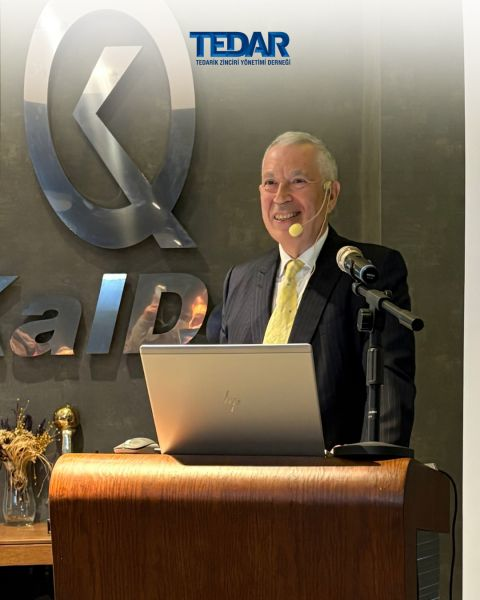
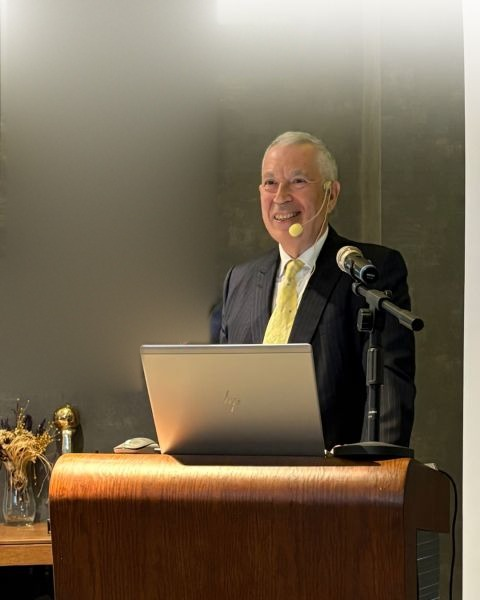
refactor(certificates): update certificate API endpoints and remove unnecessary checks

Changed region(s): [[0.0, 0.0, 0.625, 0.66]]

diff --git a/src/app/page.tsx b/src/app/page.tsx
@@ -2,7 +2,6 @@ import Link from "next/link";
 import { ArrowRight, Award } from "lucide-react";
 import { Corners } from "@/components/Corners";
 import { CourseCard } from "@/components/CourseCard";
-import { CertVerify } from "@/components/CertVerify";
 import { DEMO_CERT, FOUNDERS, MARQUEE, STEPS, BLUE, PURP, courseColor, courseDelay } from "@/data/courses";
 import { getCurrentUser } from "@/lib/auth";
 import { isActiveMember } from "@/lib/company";
@@ -236,11 +235,10 @@ export default async function HomePage() {
           <div className="wrap section-pad" style={{ display: "grid", gridTemplateColumns: "repeat(auto-fit,minmax(min(100%,440px),1fr))", gap: 64, alignItems: "center" }}>
             <div data-reveal="1">
               <div className="eyebrow" style={{ color: "var(--color-accent-2-700)" }}>04 — Sertifikasyon</div>
-              <h2 className="h-section" style={{ margin: "0 0 22px" }}>Sınavla kazanılır, tek tıkla doğrulanır</h2>
+              <h2 className="h-section" style={{ margin: "0 0 22px" }}>Sınavla kazanılır, numarayla belgelenir</h2>
               <p style={{ fontSize: 17, color: "color-mix(in srgb,var(--color-text) 74%,transparent)", maxWidth: 480, textWrap: "pretty", marginBottom: 32 }}>
-                Final sınavını geçen her öğrenciye benzersiz numaralı bir sertifika verilir. İşverenler sertifika numarasıyla ya da QR kodla belgenin geçerliliğini anında kontrol edebilir.
+                Final sınavını geçen her öğrenciye benzersiz numaralı bir sertifika verilir.
               </p>
-              <CertVerify />
             </div>
 
             <div aria-hidden style={{ position: "relative", minHeight: 440, display: "grid", placeItems: "center" }}>

diff --git a/src/lib/format.ts b/src/lib/format.ts
@@ -4,18 +4,6 @@ export function formatPrice(value: number | string | null | undefined): string {
   return "₺" + new Intl.NumberFormat("tr-TR", { minimumFractionDigits: Number.isInteger(n) ? 0 : 2, maximumFractionDigits: 2 }).format(n);
 }
 
-/** Kutuya sertifika numarası ya da sertifika linki (…/sertifika/PRF-2026-000001) girilebilir; numarayı ayıklar. */
-export function extractCertCode(input: string): string {
-  const text = input.trim();
-  const m = text.match(/(?:^|\/)sertifika\/([^/?#\s]+)/i);
-  if (!m) return text;
-  try {
-    return decodeURIComponent(m[1]).trim();
-  } catch {
-    return m[1];
-  }
-}
-
 /** 135 → "2 saat 15 dk", 60 → "1 saat", 45 → "45 dk" */
 export function formatDuration(totalMinutes: number | null | undefined): string {
   const m = Math.max(0, Math.round(Number(totalMinutes ?? 0)));

diff --git a/src/app/sertifika/[code]/page.tsx b/src/app/sertifika/[code]/page.tsx
@@ -1,7 +1,6 @@
 import type { Metadata } from "next";
 import { headers } from "next/headers";
 import Image from "next/image";
-import Link from "next/link";
 import { Download } from "lucide-react";
 import { notFound } from "next/navigation";
 import { Corners } from "@/components/Corners";
@@ -97,7 +96,7 @@ export default async function CertificatePage({ params }: Props) {
           />
         </div>
         <p style={{ textAlign: "center", marginTop: 32, fontSize: 14, color: "var(--muted-55)" }}>
-          Bu sayfa, sertifikanın Profect kayıtlarında bulunduğunu doğrular. <Link href="/#sertifika">Başka bir sertifika doğrula</Link>
+          Bu sayfa, sertifikanın Profect kayıtlarında bulunduğunu doğrular.
         </p>
       </div>
     </main>

diff --git a/src/components/Footer.tsx b/src/components/Footer.tsx
@@ -35,7 +35,6 @@ export function Footer() {
       <div className="footer-col">
         <div className="footer-title">Platform</div>
         <Link href="/kurslar">Kurslar</Link>
-        <Link href="/#sertifika">Sertifika doğrula</Link>
         <Link href="/blog">Blog</Link>
         <Link href="/haberler">Haberler</Link>
       </div>
